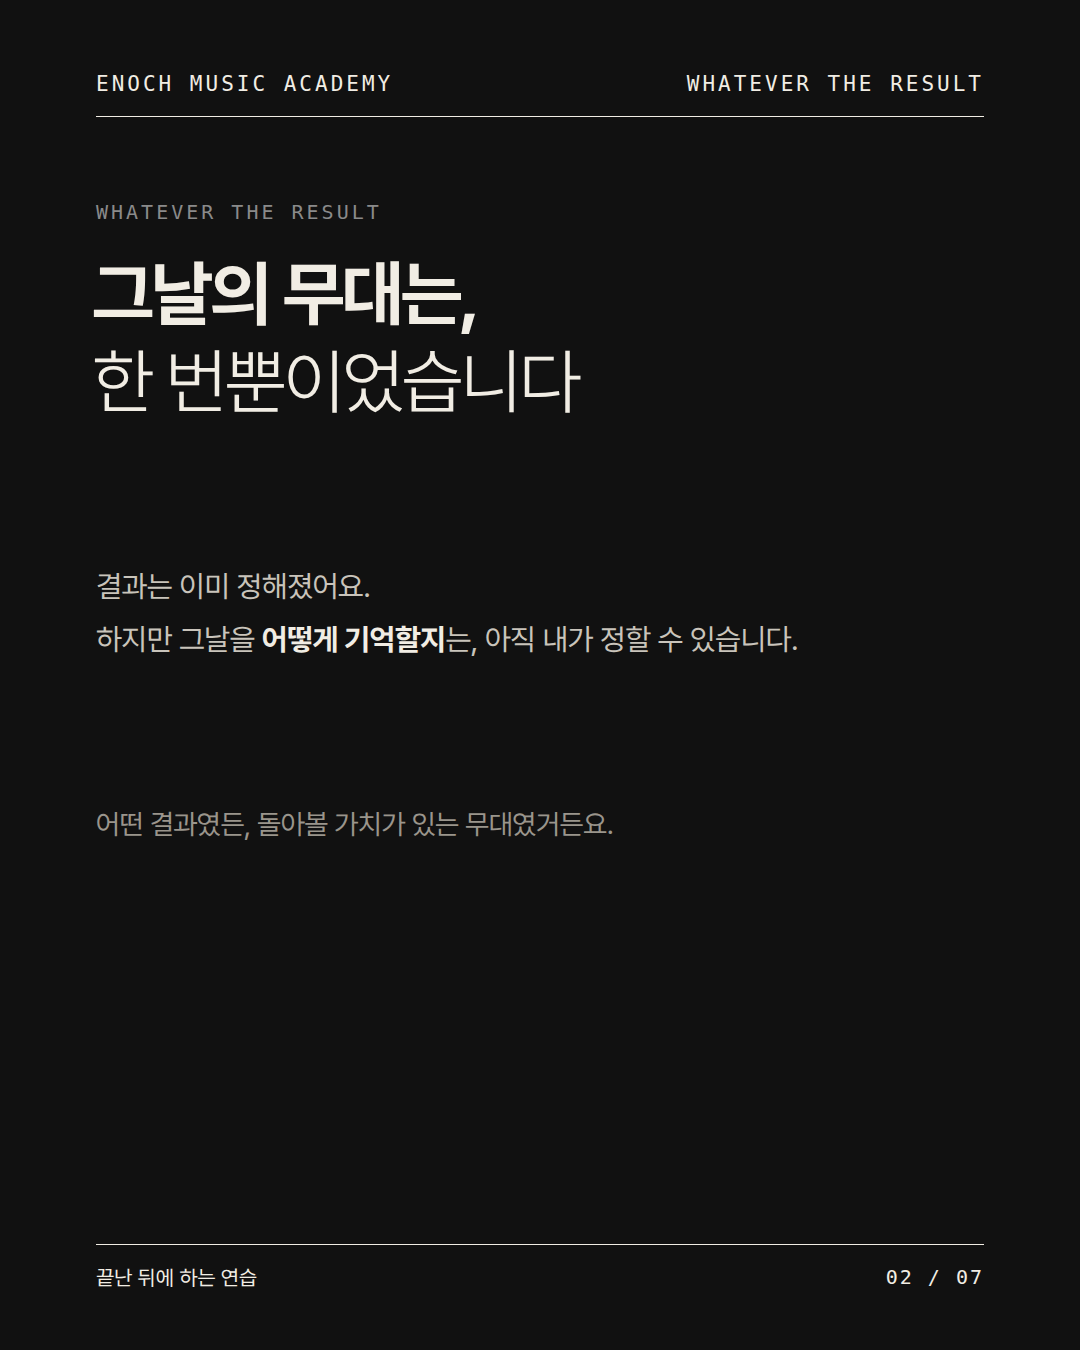
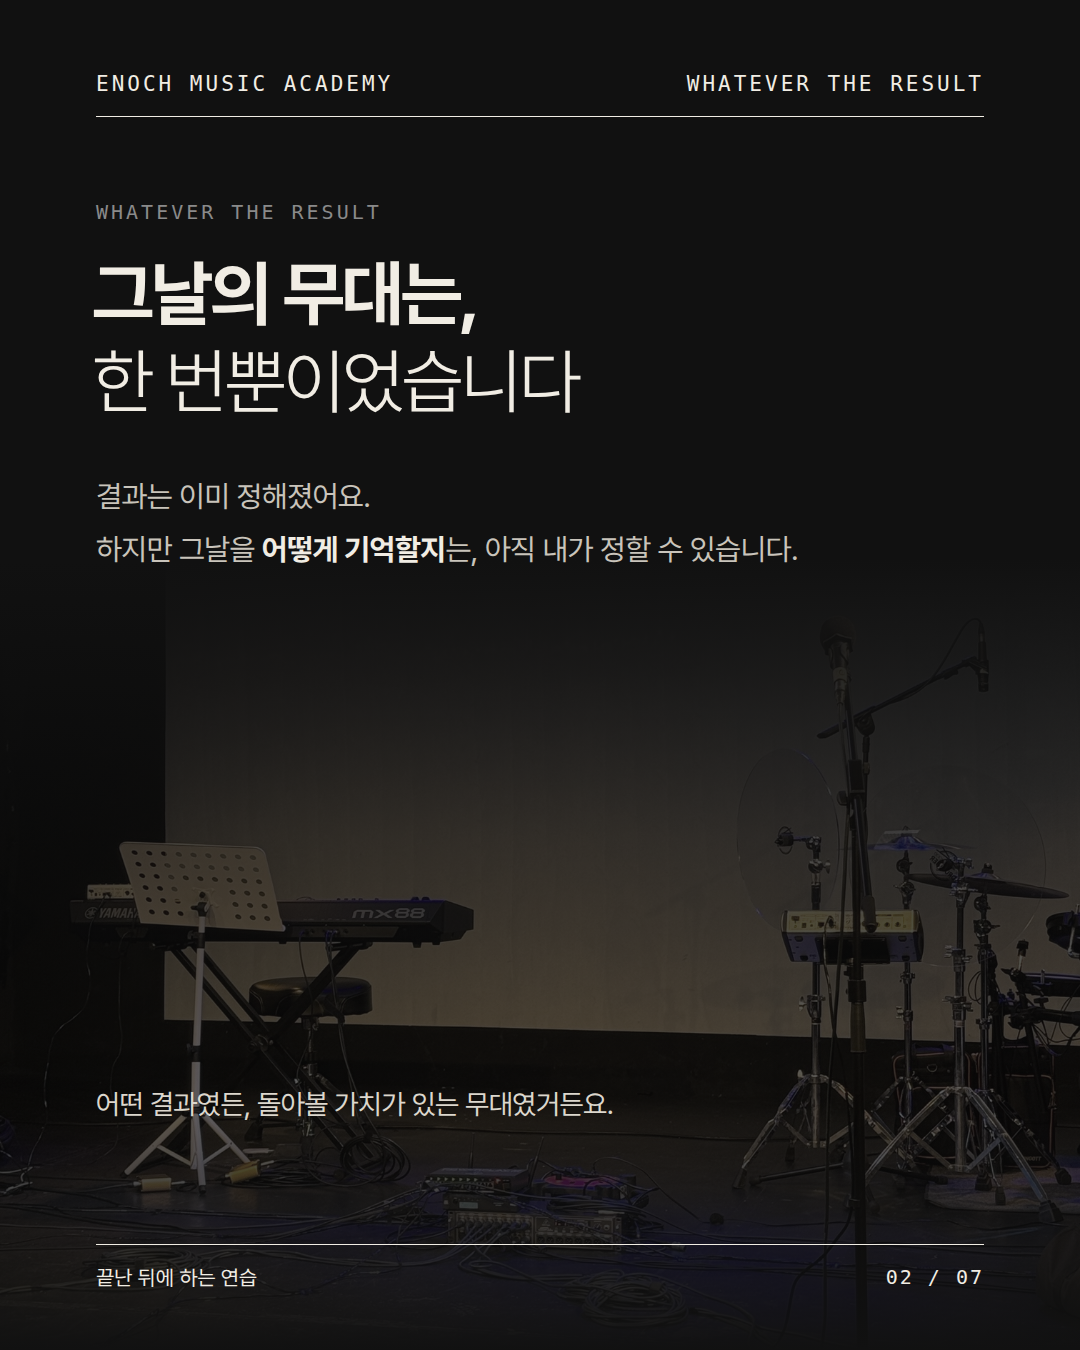
끝난 뒤에 하는 연습: 표지 복도 확정, 빈 무대 사진은 2장 배경으로
Claude-Session: https://claude.ai/code/session_01HGbZvgMeYrbU7mY8bwfjyb

diff --git a/output/노트_복기/deck.html b/output/노트_복기/deck.html
@@ -35,10 +35,12 @@
 <div class="h a" style="left:92px;top:875px;font-size:84px;letter-spacing:-4.2px;line-height:1.18">끝난 뒤에 하는,<br><em>연습</em></div>
 <div class="p a" style="left:96px;top:1110px;font-size:28px">그날의 무대를 돌아보는 일에 대하여</div>
 <div class="ft"><span>끝난 뒤에 하는 연습</span><span>01 / 07</span></div></section><section class="s dark" id="c2"><div class="hd"><span>ENOCH MUSIC ACADEMY</span><span>WHATEVER THE RESULT</span></div>
+<div class="a" style="left:0;right:0;top:560px;height:790px;background:url(../../images/공간/무대_02.jpg) 50% 70%/cover;filter:grayscale(.5) brightness(.55)"></div>
+<div class="a" style="left:0;right:0;top:560px;height:790px;background:linear-gradient(#111 0%,rgba(17,17,17,.55) 35%,rgba(17,17,17,.35) 70%,#111 100%)"></div>
 <div class="k a" style="left:96px;top:200px">Whatever the Result</div>
 <div class="h a" style="left:92px;top:250px">그날의 무대는,<br><em>한 번뿐이었습니다</em></div>
-<div class="p a" style="left:96px;right:96px;top:560px">결과는 이미 정해졌어요.<br>하지만 그날을 <b>어떻게 기억할지</b>는, 아직 내가 정할 수 있습니다.</div>
-<div class="p a" style="left:96px;right:96px;top:800px;font-size:28px;color:#9A958C">어떤 결과였든, 돌아볼 가치가 있는 무대였거든요.</div>
+<div class="p a" style="left:96px;right:96px;top:470px">결과는 이미 정해졌어요.<br>하지만 그날을 <b>어떻게 기억할지</b>는, 아직 내가 정할 수 있습니다.</div>
+<div class="p a" style="left:96px;right:96px;top:1080px;font-size:28px;color:#DCD7CD">어떤 결과였든, 돌아볼 가치가 있는 무대였거든요.</div>
 <div class="ft"><span>끝난 뒤에 하는 연습</span><span>02 / 07</span></div></section><section class="s" id="c3"><div class="hd"><span>ENOCH MUSIC ACADEMY</span><span>NOT TO BLAME</span></div>
 <div class="k a" style="left:96px;top:200px">Not to Blame</div>
 <div class="h a" style="left:92px;top:250px">복기는,<br><em>나를 혼내는 시간이 아닙니다</em></div>

diff --git a/output/노트_복기/gen.py b/output/노트_복기/gen.py
@@ -49,10 +49,12 @@ S.append(f"""<section class="s" id="c1">{HD()}
 {FT(1)}</section>""")
 # 02 결과와 상관없이
 S.append(f"""<section class="s dark" id="c2">{HD("WHATEVER THE RESULT")}
+<div class="a" style="left:0;right:0;top:560px;height:790px;background:url(../../images/공간/무대_02.jpg) 50% 70%/cover;filter:grayscale(.5) brightness(.55)"></div>
+<div class="a" style="left:0;right:0;top:560px;height:790px;background:linear-gradient(#111 0%,rgba(17,17,17,.55) 35%,rgba(17,17,17,.35) 70%,#111 100%)"></div>
 <div class="k a" style="left:96px;top:200px">Whatever the Result</div>
 <div class="h a" style="left:92px;top:250px">그날의 무대는,<br><em>한 번뿐이었습니다</em></div>
-<div class="p a" style="left:96px;right:96px;top:560px">결과는 이미 정해졌어요.<br>하지만 그날을 <b>어떻게 기억할지</b>는, 아직 내가 정할 수 있습니다.</div>
-<div class="p a" style="left:96px;right:96px;top:800px;font-size:28px;color:#9A958C">어떤 결과였든, 돌아볼 가치가 있는 무대였거든요.</div>
+<div class="p a" style="left:96px;right:96px;top:470px">결과는 이미 정해졌어요.<br>하지만 그날을 <b>어떻게 기억할지</b>는, 아직 내가 정할 수 있습니다.</div>
+<div class="p a" style="left:96px;right:96px;top:1080px;font-size:28px;color:#DCD7CD">어떤 결과였든, 돌아볼 가치가 있는 무대였거든요.</div>
 {FT(2)}</section>""")
 # 03 혼내는 시간이 아닙니다
 S.append(f"""<section class="s" id="c3">{HD("NOT TO BLAME")}
